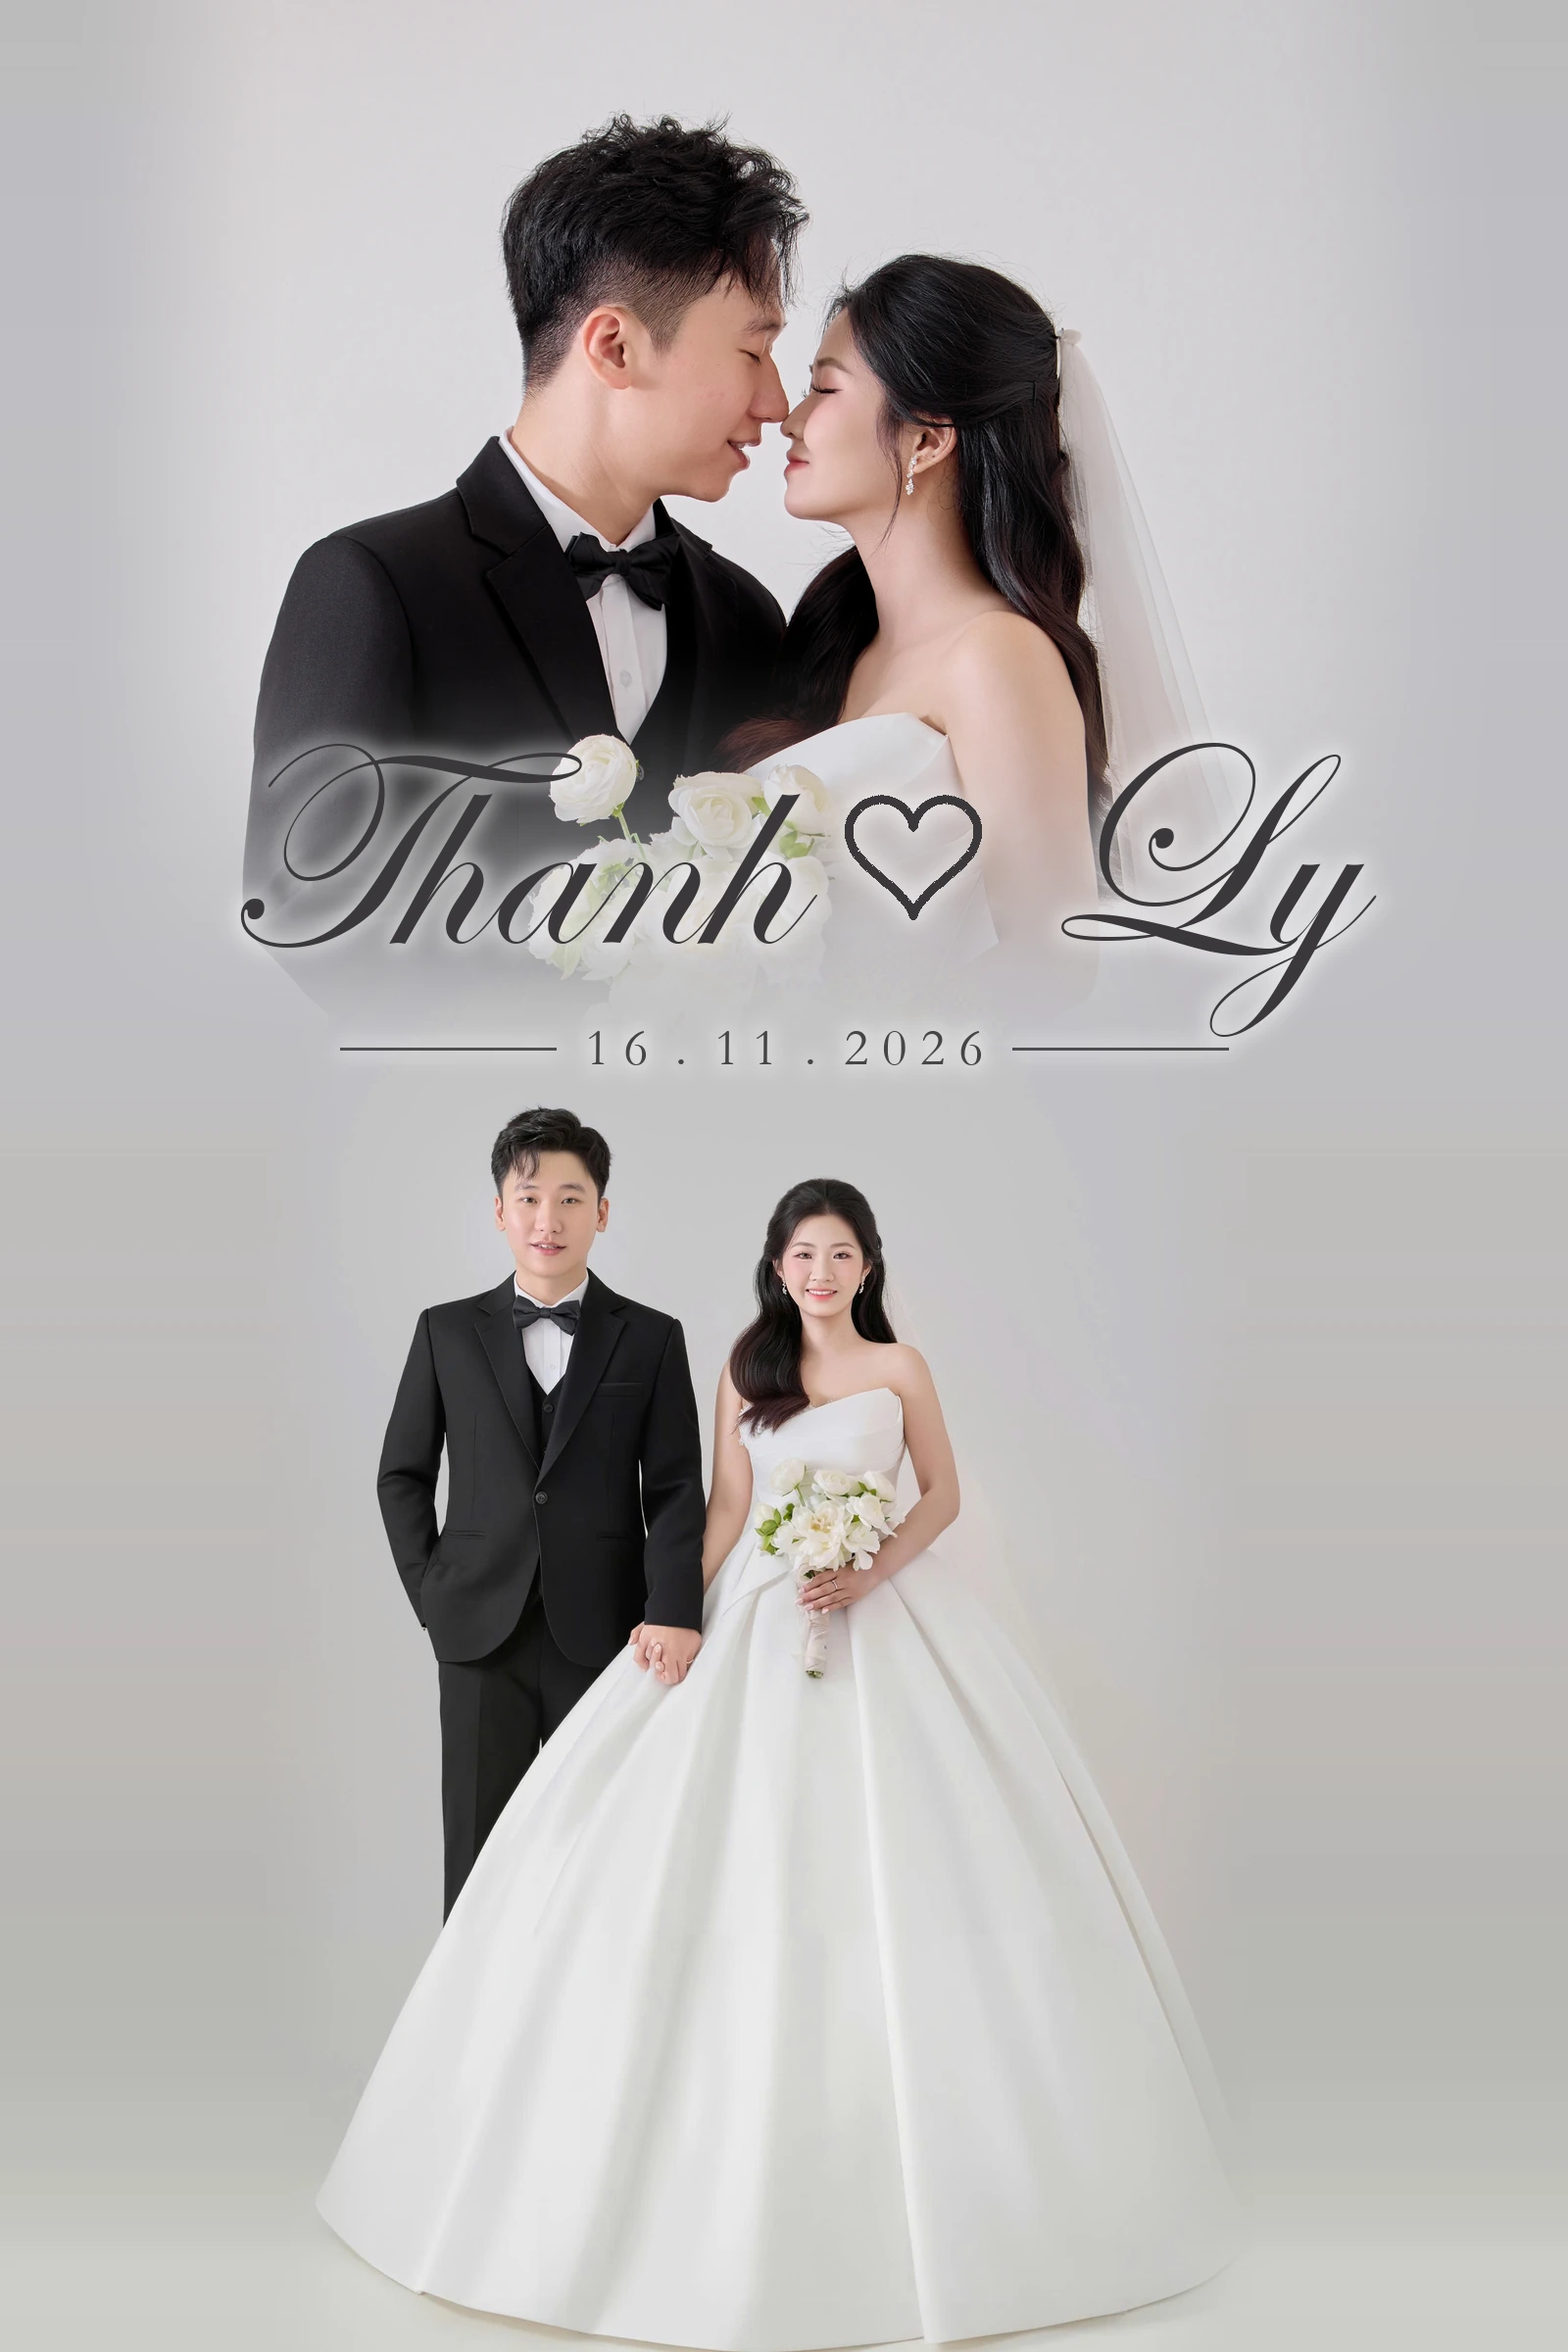
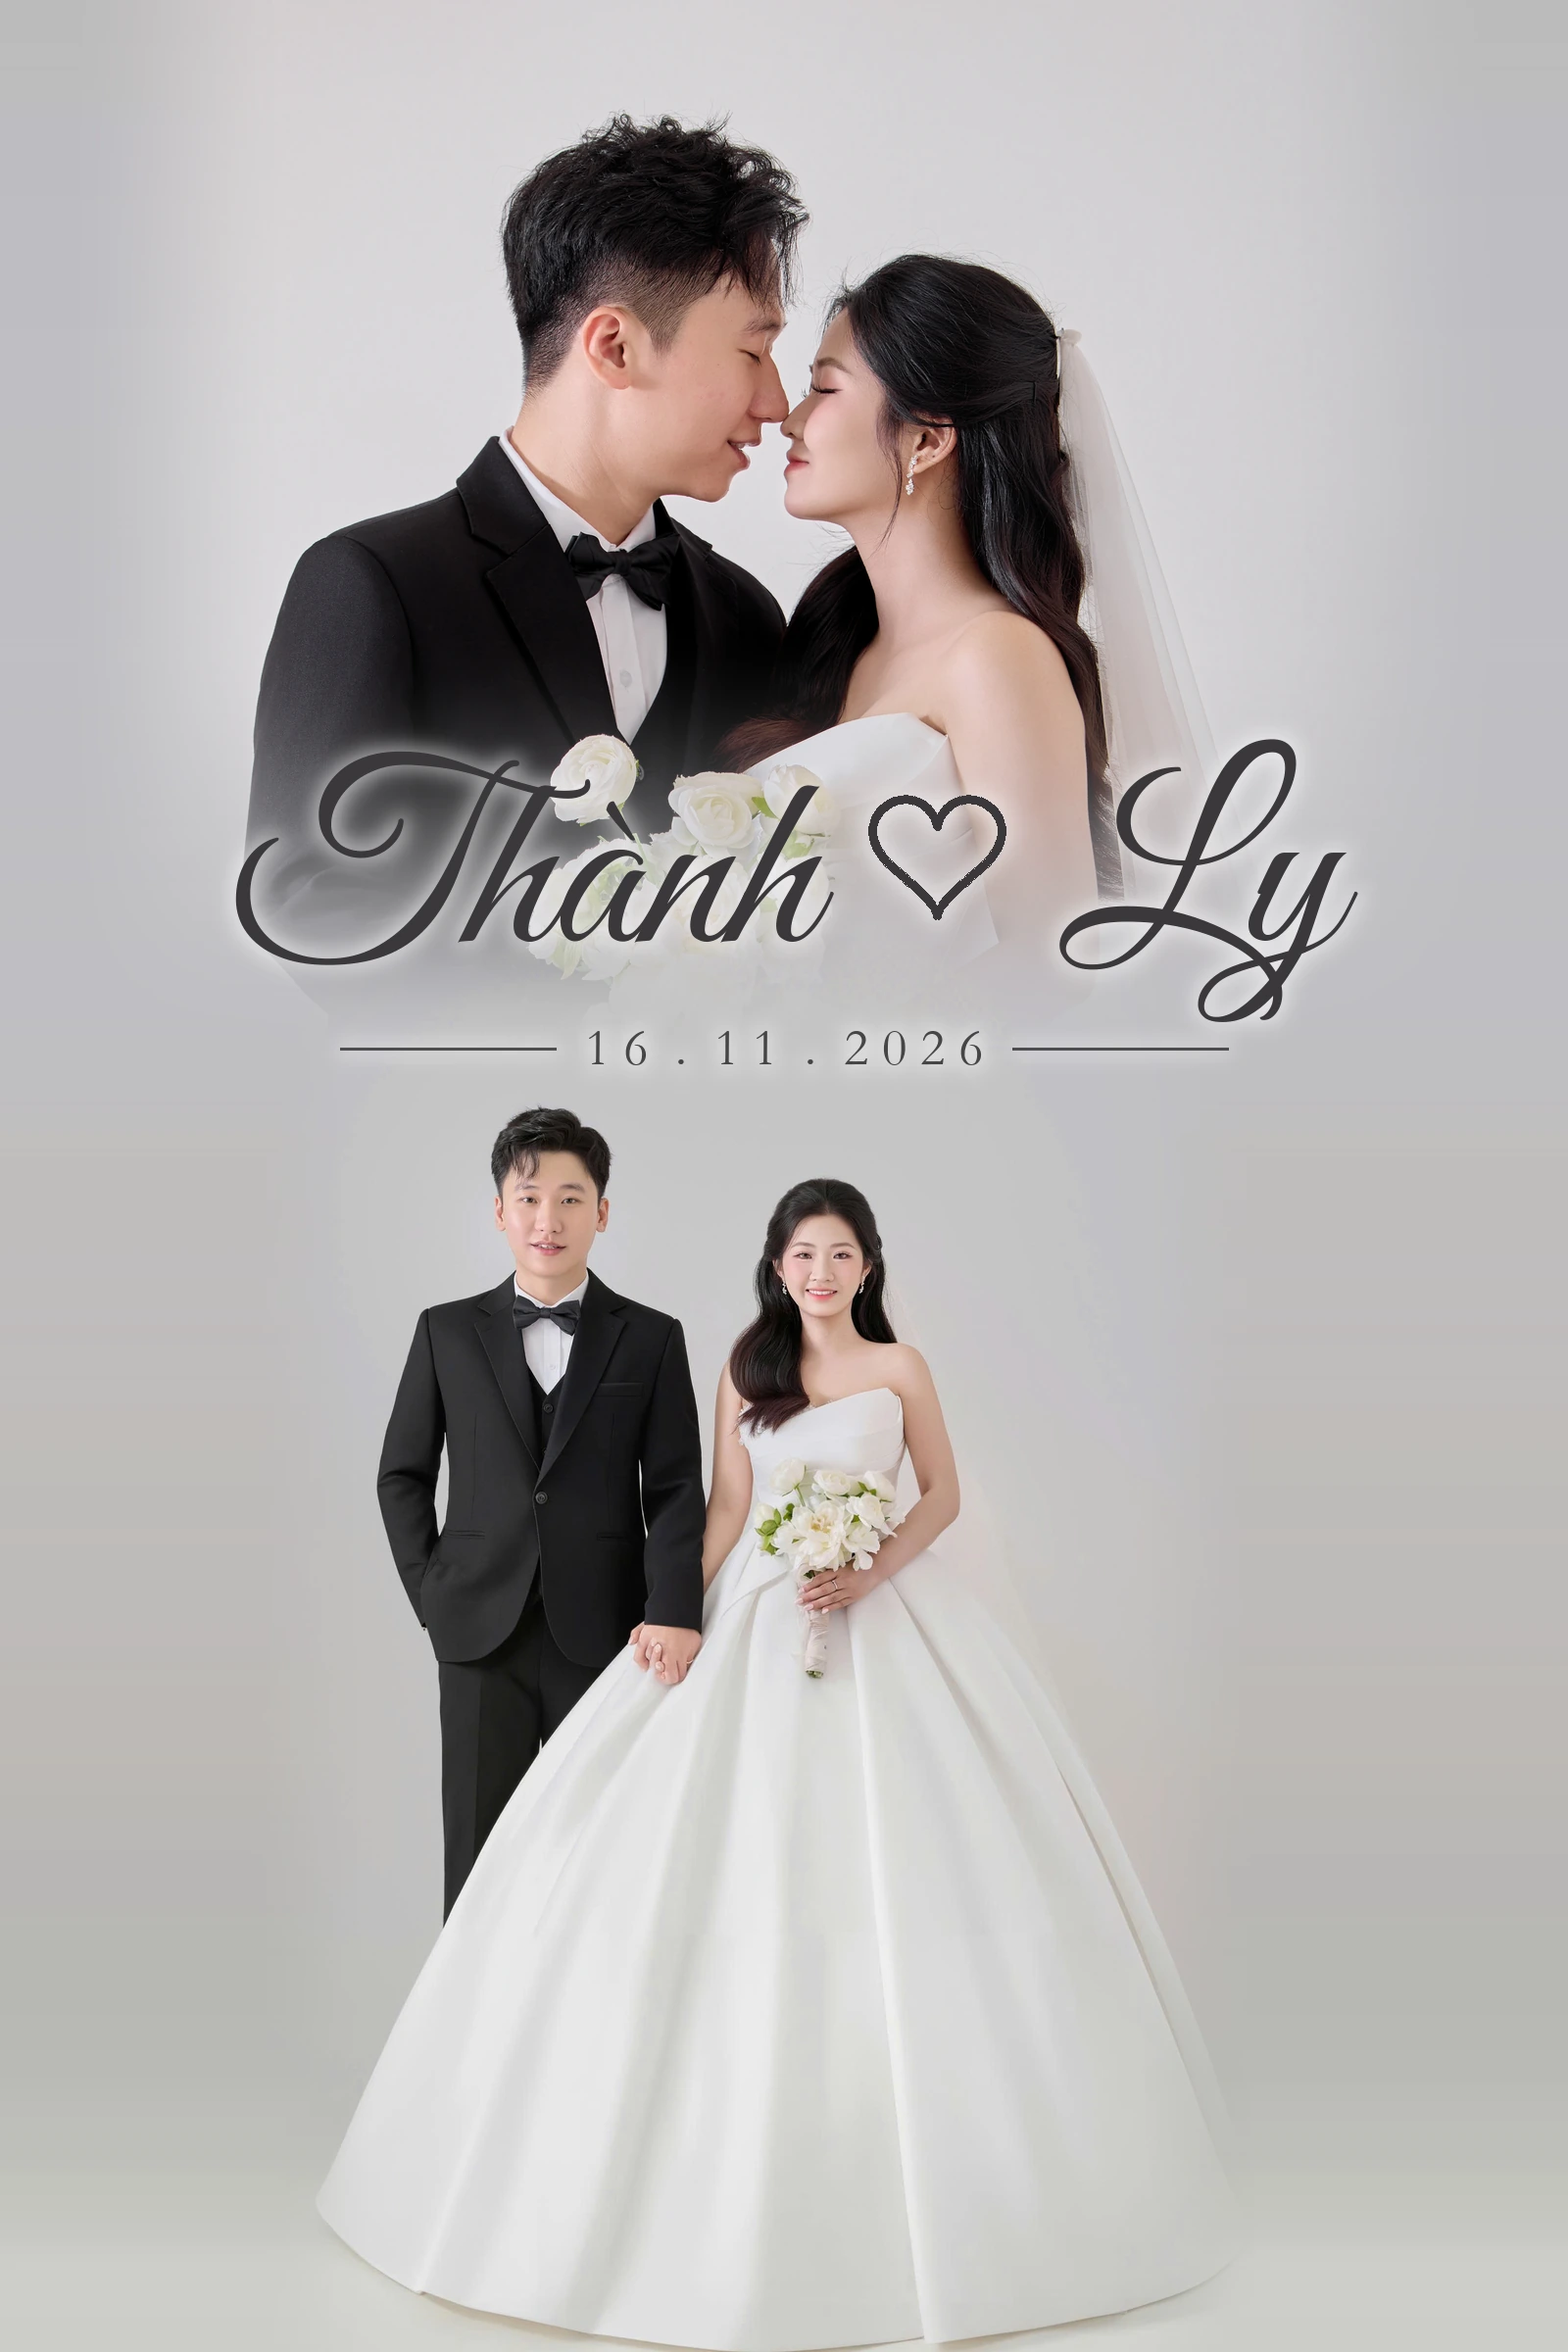
Add lunar date, swap couple names, fix + in guest name, restyle hearts and cover text
- Show "(Nhằm ngày 08 tháng 10 năm Bính Ngọ)" under every solar date and in the calendar event
- "Đức Thành ♥ Ly Ly" with a theme-colored icon heart instead of the ღ/emoji heart
- "Lễ tân hôn" -> "Lễ thành hôn"
- Decode "+" as space in ?to= guest names (Facebook links)
- Hide welcome ornaments on short screens so the screen still fits
- Cover image: "Thành ♡ Ly" in Great Vibes

Changed region(s): [[0.1562, 0.3125, 0.6562, 0.4375], [0.6562, 0.3125, 0.875, 0.4375]]

diff --git a/index.html b/index.html
@@ -4,35 +4,35 @@
     <!-- Common Tag -->
     <meta charset="utf-8" />
     <meta name="viewport" content="width=device-width, initial-scale=1" />
-    <title>Thiệp mời cưới Thành ღ Ly</title>
+    <title>Thiệp mời cưới Thành ❤ Ly</title>
 
     <!-- SEO Tag -->
     <meta name="author" content="leeducthanh0806" />
     <meta name="language" content="id" />
     <meta name="robots" content="index, follow, max-image-preview:large" />
     <meta name="googlebot" content="index, follow, max-image-preview:large" />
-    <meta name="title" content="Thiệp mời cưới Thành ღ Ly" />
-    <meta name="description" content="Thiệp mời cưới Thành ღ Ly" />
+    <meta name="title" content="Thiệp mời cưới Thành ❤ Ly" />
+    <meta name="description" content="Thiệp mời cưới Thành ❤ Ly" />
     <meta name="keywords" content="" />
-    <meta property="og:title" content="Thiệp mời cưới Thành ღ Ly" />
-    <meta property="og:description" content="Thiệp mời cưới Thành ღ Ly" />
+    <meta property="og:title" content="Thiệp mời cưới Thành ❤ Ly" />
+    <meta property="og:description" content="Thiệp mời cưới Thành ❤ Ly" />
     <meta property="og:keywords" content="" />
-    <meta property="og:image" content="./assets/img/main.webp?v=20261004b" />
-    <meta property="og:image:secure_url" content="./assets/img/main.webp?v=20261004b" />
+    <meta property="og:image" content="./assets/img/main.webp?v=20261005c" />
+    <meta property="og:image:secure_url" content="./assets/img/main.webp?v=20261005c" />
     <meta property="og:image:type" content="image/webp" />
-    <meta property="og:image:alt" content="Thiệp mời cưới Thành ღ Ly" />
+    <meta property="og:image:alt" content="Thiệp mời cưới Thành ❤ Ly" />
     <meta property="og:image:width" content="980" />
     <meta property="og:image:height" content="980" />
     <meta property="og:type" content="website" />
     <meta property="og:locale" content="id_ID" />
     <meta property="og:url" content="https://ulems.my.id" />
-    <meta property="og:site_name" content="Thiệp mời cưới Thành ღ Ly" />
+    <meta property="og:site_name" content="Thiệp mời cưới Thành ❤ Ly" />
 
     <!-- Appearance -->
     <meta name="mobile-web-app-capable" content="yes" />
     <meta
       name="apple-mobile-web-app-title"
-      content="Thiệp mời cưới Thành ღ Ly"
+      content="Thiệp mời cưới Thành ❤ Ly"
     />
     <meta name="theme-color" content="#000000" />
     <meta name="color-scheme" content="dark light" />
@@ -249,11 +249,14 @@
             <p class="desktop-eyebrow mb-2">Trân trọng kính mời</p>
             <p class="desktop-guest d-none mb-1" id="desktop-guest"></p>
             <h2 class="font-esthetic text-do-do m-0 text-nowrap" style="font-size: clamp(2rem, 3.4vw, 3.75rem); line-height: 1.3">
-              Ly Ly ღ Đức Thành
+              Đức Thành <i class="fa-solid fa-heart name-heart"></i> Ly Ly
             </h2>
             <div class="desktop-divider mx-auto my-3"></div>
             <p class="m-0" style="font-size: 1.35rem">
               Quảng Ngãi, 16 tháng 11 năm 2026
+            </p>
+            <p class="m-0 mt-1" style="font-size: 1rem; opacity: 0.8">
+              (Nhằm ngày 08 tháng 10 năm Bính Ngọ)
             </p>
           </div>
         </div>
@@ -305,10 +308,13 @@
                 class="font-esthetic my-4 text-do-do"
                 style="font-size: 2.25rem"
               >
-                Ly Ly ღ Đức Thành
+                Đức Thành <i class="fa-solid fa-heart name-heart"></i> Ly Ly
               </h2>
-              <p class="my-2" style="font-size: 1.25rem">
+              <p class="mt-2 mb-0" style="font-size: 1.25rem">
                 Quảng Ngãi, 16 tháng 11 năm 2026
+              </p>
+              <p class="mb-2" style="font-size: 0.95rem; opacity: 0.8">
+                (Nhằm ngày 08 tháng 10 năm Bính Ngọ)
               </p>
 
               <button
@@ -353,7 +359,7 @@
           <!-- Bride -->
           <section class="bg-white-black text-center" id="bride">
             <h2 class="font-esthetic py-4 m-0" style="font-size: 2rem">
-              Lễ tân hôn
+              Lễ thành hôn
             </h2>
 
             <div class="overflow-x-hidden pb-4">
@@ -379,9 +385,9 @@
                 </div>
               </div>
 
-              <h2 class="font-esthetic mt-4" style="font-size: 4.5rem">
-                ღ
-              </h2>
+              <div class="mt-4 mb-3">
+                <i class="fa-solid fa-heart couple-heart"></i>
+              </div>
 
               <div class="position-relative">
                 <div
@@ -486,6 +492,9 @@
               <h3 class="font-esthetic m-0 py-2" style="font-size: 1.75rem">
                 Thứ hai, ngày 16 tháng 11 năm 2026
               </h3>
+              <p class="m-0 pb-2" style="font-size: 0.95rem">
+                (Nhằm ngày 08 tháng 10 năm Bính Ngọ)
+              </p>
 
               <div class="overflow-x-hidden">
                 <div
@@ -494,7 +503,7 @@
                   data-aos-duration="1500"
                 >
                   <h2 class="font-esthetic m-0 py-2" style="font-size: 2rem">
-                    Lễ Tân Hôn
+                    Lễ Thành Hôn
                   </h2>
                   <p style="font-size: 0.95rem; margin-bottom: 0">10:30</p>
                 </div>
@@ -507,7 +516,7 @@
                   <h2 class="font-esthetic m-0 py-2" style="font-size: 2rem">
                     Tiệc Cưới
                   </h2>
-                  <p style="font-size: 0.95rem; margin-bottom: 0">11:00</p>
+                  <p style="font-size: 0.95rem; margin-bottom: 0">17:00</p>
                 </div>
               </div>
 
@@ -714,7 +723,7 @@
                     <div class="carousel-item active">
                       <img
                         src="./assets/images/placeholder.webp"
-                        data-src="./assets/img/main.webp?v=20261004"
+                        data-src="./assets/img/main.webp?v=20261005c"
                         alt="Album ảnh 1"
                         class="d-block img-fluid cursor-pointer"
                         onclick="undangan.guest.modal(this)"
@@ -1297,7 +1306,7 @@
 
           <img
             src="./assets/images/placeholder.webp"
-            data-src="./assets/img/main.webp?v=20261004b"
+            data-src="./assets/img/main.webp?v=20261005c"
             alt="background"
             class="img-center-crop rounded-circle border border-3 border-light shadow mb-4 mx-auto"
           />
@@ -1307,7 +1316,7 @@
           </div>
 
           <h2 class="font-esthetic mb-4 text-do-do" style="font-size: 2.25rem">
-             Ly Ly ღ Đức Thành
+             Đức Thành <i class="fa-solid fa-heart name-heart"></i> Ly Ly
           </h2>
 
           <div class="guest-name-box mx-auto mt-1 mb-4">
@@ -1318,6 +1327,9 @@
 
             <p class="m-0" style="font-size: 1.1rem; letter-spacing: 2px;">
               16 • 11 • 2026
+            </p>
+            <p class="m-0" style="font-size: 0.8rem; opacity: 0.8">
+              (Nhằm ngày 08 tháng 10 năm Bính Ngọ)
             </p>
           </div>
 

diff --git a/js/app/guest/guest.js b/js/app/guest/guest.js
@@ -71,7 +71,8 @@ export const guest = (() => {
 
         if (raw.length > 1 && raw[1].length >= 1) {
             // Bỏ tham số theo dõi mà Zalo/Facebook tự gắn vào cuối link (&utm_source=zalo...).
-            const value = raw[1].replace(/&(utm_|fbclid|gclid|zarsrc)[^]*$/i, '');
+            // Facebook mã hoá dấu cách thành "+", đổi lại trước khi giải mã.
+            const value = raw[1].replace(/&(utm_|fbclid|gclid|zarsrc)[^]*$/i, '').replace(/\+/g, ' ');
             try {
                 name = window.decodeURIComponent(value);
             } catch {
@@ -268,9 +269,9 @@ export const guest = (() => {
         const url = new URL('https://calendar.google.com/calendar/render');
         const data = new URLSearchParams({
             action: 'TEMPLATE',
-            text: 'Ly Ly ღ Đức Thành',
+            text: 'Đức Thành ❤ Ly Ly',
             dates: `${formatDate('2026-11-16 10:00')}`,
-            details: 'Trân trọng kính mời Quý vị dành thời gian đến tham dự lễ thành hôn của chúng tôi. Sự hiện diện và lời chúc phúc của Quý vị là niềm vinh hạnh và hạnh phúc lớn lao đối với gia đình chúng tôi.',
+            details: 'Thứ hai, ngày 16 tháng 11 năm 2026 (nhằm ngày 08 tháng 10 năm Bính Ngọ). Trân trọng kính mời Quý vị dành thời gian đến tham dự lễ thành hôn của chúng tôi. Sự hiện diện và lời chúc phúc của Quý vị là niềm vinh hạnh và hạnh phúc lớn lao đối với gia đình chúng tôi.',
             location: 'Đội 8, Nghĩa Thương, Tư Nghĩa, Quảng Ngãi.',
             ctz: config.get('tz'),
         });

diff --git a/css/guest.css b/css/guest.css
@@ -251,6 +251,13 @@ html[data-bs-theme="dark"] .guest-name-box {
   margin-bottom: 0.8vh !important;
 }
 
+/* Màn hình thấp: ẩn các dòng hoa trang trí để tên khách và ngày âm vẫn vừa 1 màn hình */
+@media (max-height: 960px) {
+  #welcome .d-flex.flex-column > div:not(.guest-name-box) {
+    display: none;
+  }
+}
+
 #welcome .guest-name-box {
   padding: 1vh 1.75rem;
   margin-top: 0 !important;
@@ -373,4 +380,18 @@ html[data-bs-theme="dark"] .wish-card-name {
 .wish-card-hidden {
   opacity: 0.55;
   border-style: dashed;
+}
+
+/* Trái tim giữa tên cô dâu chú rể: dùng màu hồng đất của thiệp thay cho emoji */
+.name-heart {
+  font-size: 0.5em;
+  color: #b76e79;
+  vertical-align: middle;
+  margin: 0 0.15em;
+}
+
+.couple-heart {
+  font-size: 3rem;
+  color: #b76e79;
+  opacity: 0.85;
 }

diff --git a/js/wishes.js b/js/wishes.js
@@ -15,8 +15,10 @@
     let linkName = '';
     if (raw.length > 1 && raw[1].length >= 1) {
         try {
-            // Bỏ tham số theo dõi mà Zalo/Facebook tự gắn vào cuối link (&utm_source=zalo...).
-            linkName = window.decodeURIComponent(raw[1].replace(/&(utm_|fbclid|gclid|zarsrc)[^]*$/i, '')).trim();
+            // Bỏ tham số theo dõi mà Zalo/Facebook tự gắn vào cuối link (&utm_source=zalo...),
+            // và đổi "+" (Facebook mã hoá dấu cách) thành dấu cách.
+            const value = raw[1].replace(/&(utm_|fbclid|gclid|zarsrc)[^]*$/i, '').replace(/\+/g, ' ');
+            linkName = window.decodeURIComponent(value).trim();
         } catch {
             linkName = '';
         }

diff --git a/make_main_cover.py b/make_main_cover.py
@@ -9,7 +9,7 @@ TOP_PHOTO = "2W4A4516.jpg"
 BOTTOM_PHOTO = "main.jpg"
 OUT = "main.webp"
 W, H = 1600, 2400
-SCRIPT_FONT = "C:/Windows/Fonts/ITCEDSCR.TTF"
+SCRIPT_FONT = "tools/fonts/GreatVibes-Regular.ttf"
 SERIF_FONT = "C:/Windows/Fonts/GARA.TTF"
 TEXT_COLOR = (58, 56, 58)
 
@@ -67,8 +67,8 @@ def main():
     page = Image.fromarray(np.clip(canvas, 0, 255).round().astype(np.uint8))
 
     # Chữ "Thanh ♡ Ly"
-    font = ImageFont.truetype(SCRIPT_FONT, 300)
-    left, right = "Thanh", "Ly"
+    font = ImageFont.truetype(SCRIPT_FONT, 260)
+    left, right = "Thành", "Ly"
     heart_w, gap = 140, 55
     lw = font.getlength(left)
     rw = font.getlength(right)
